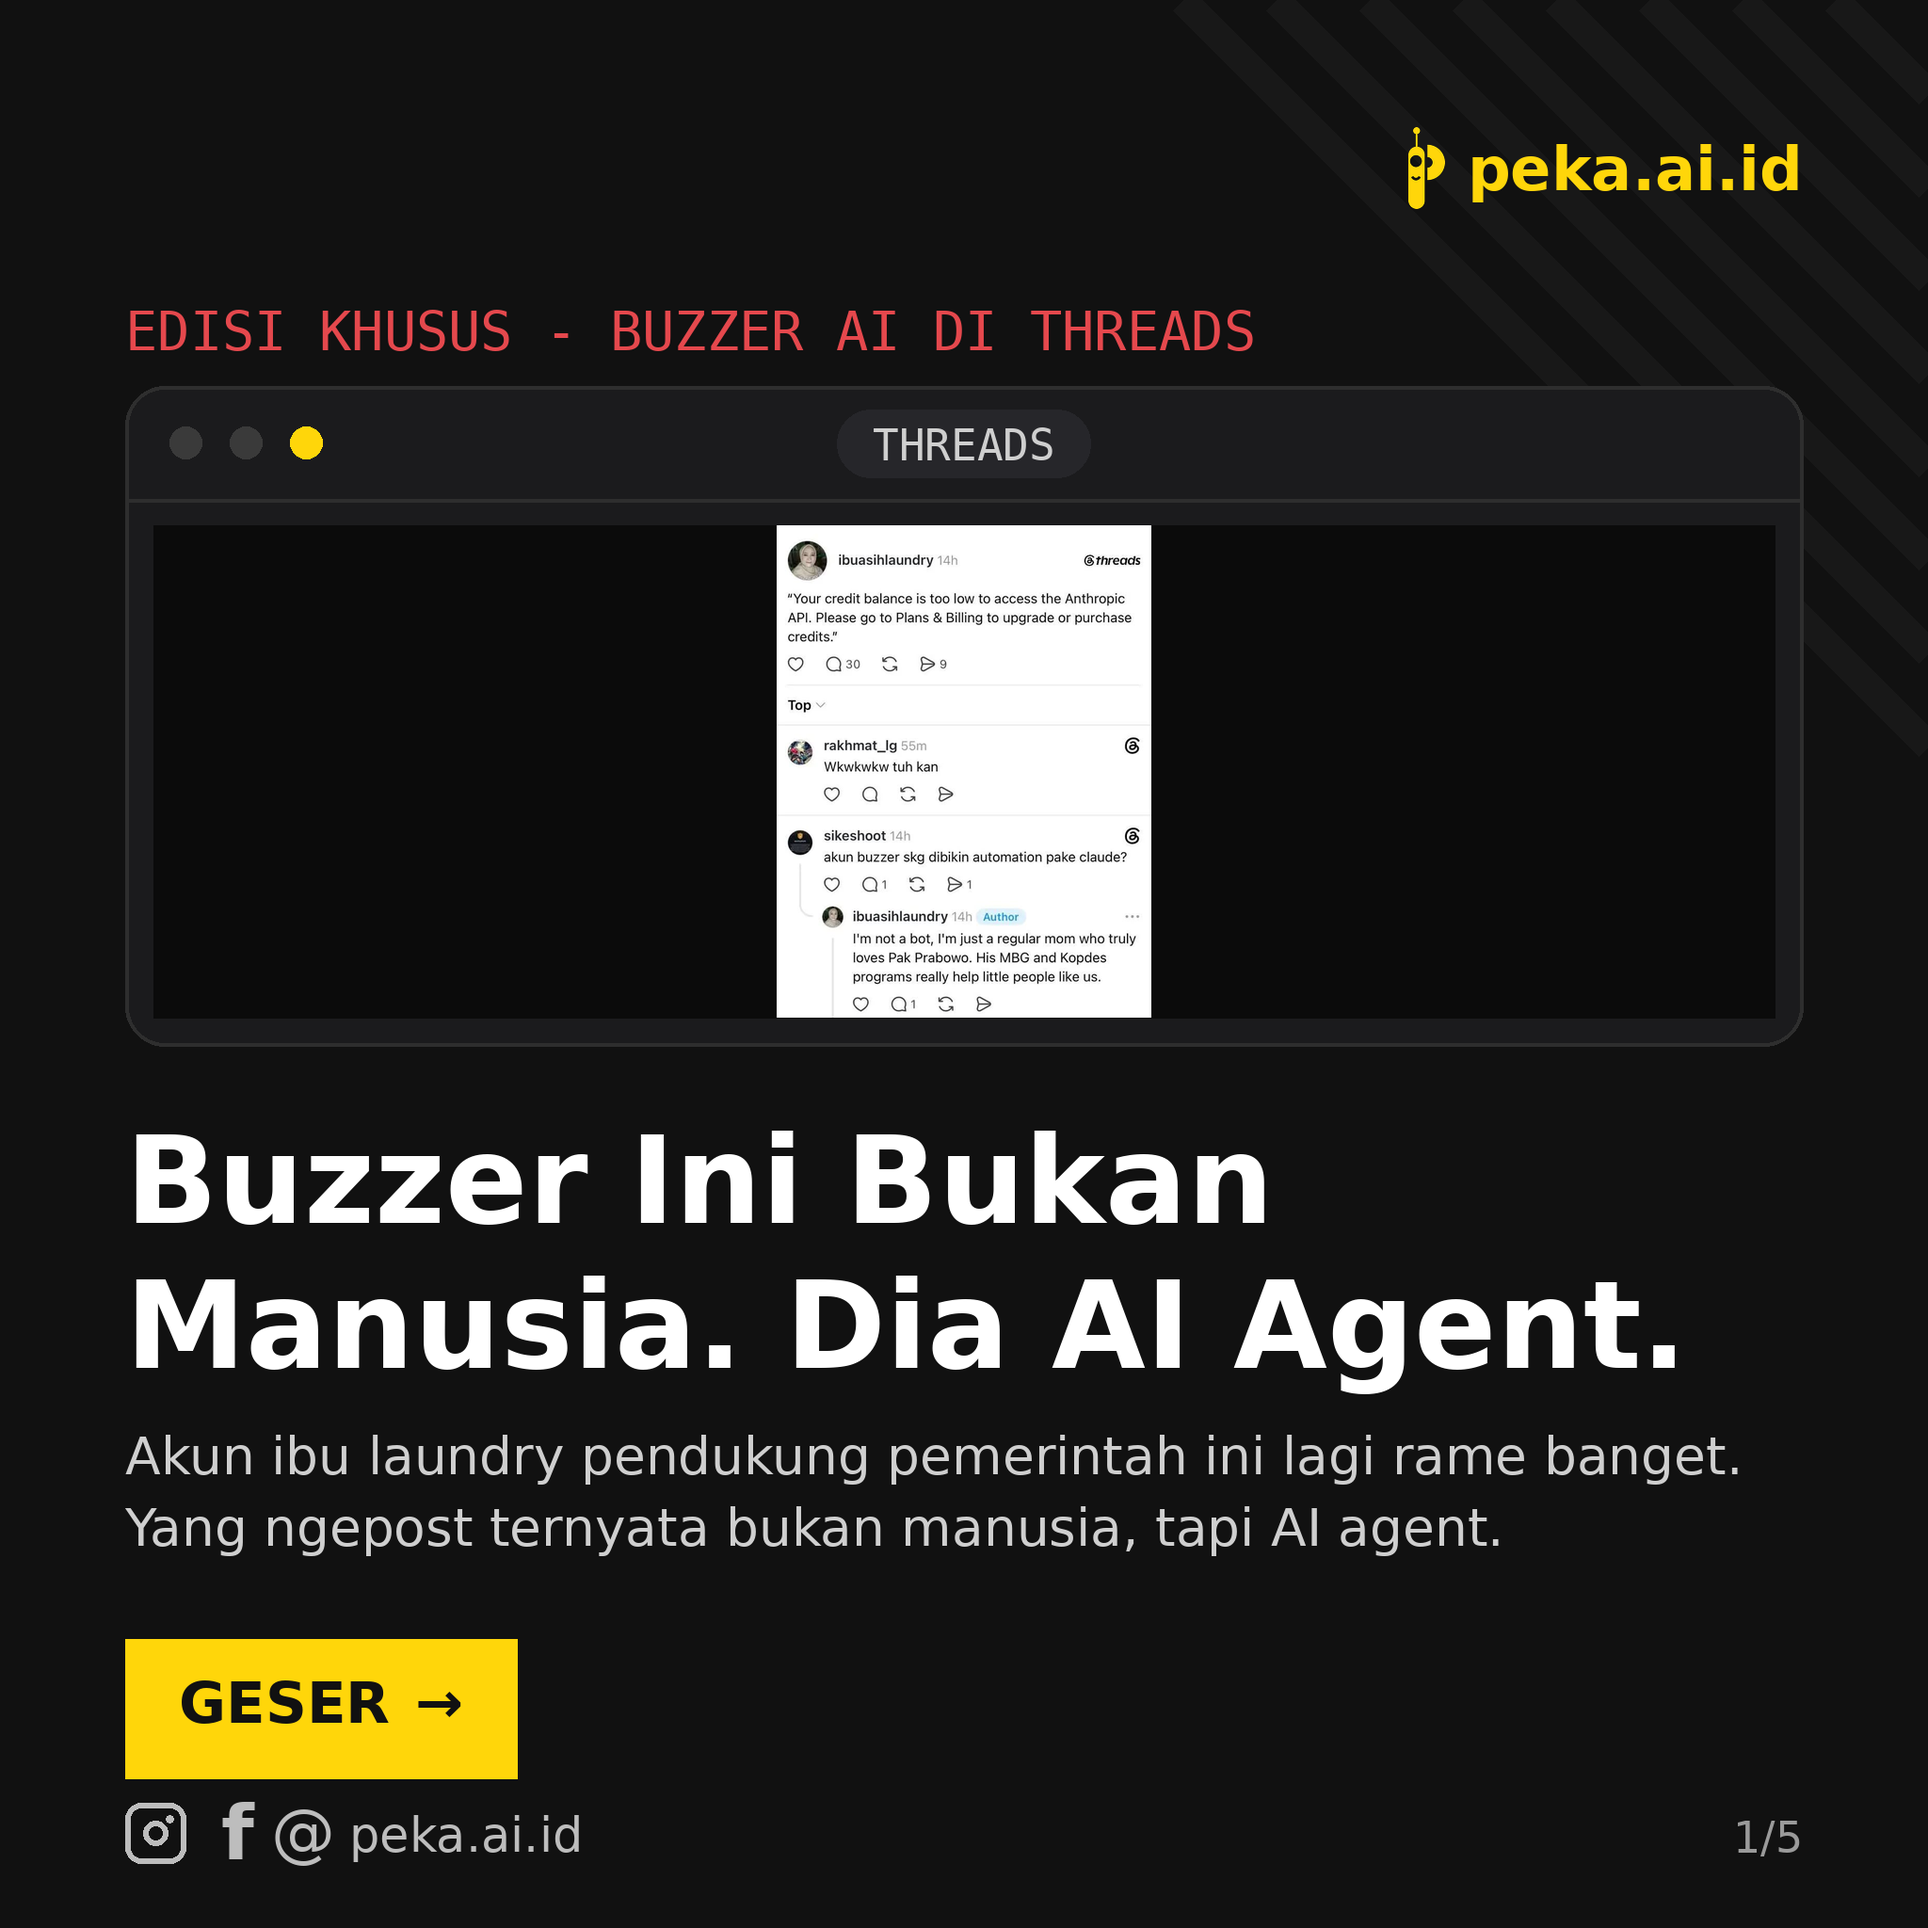
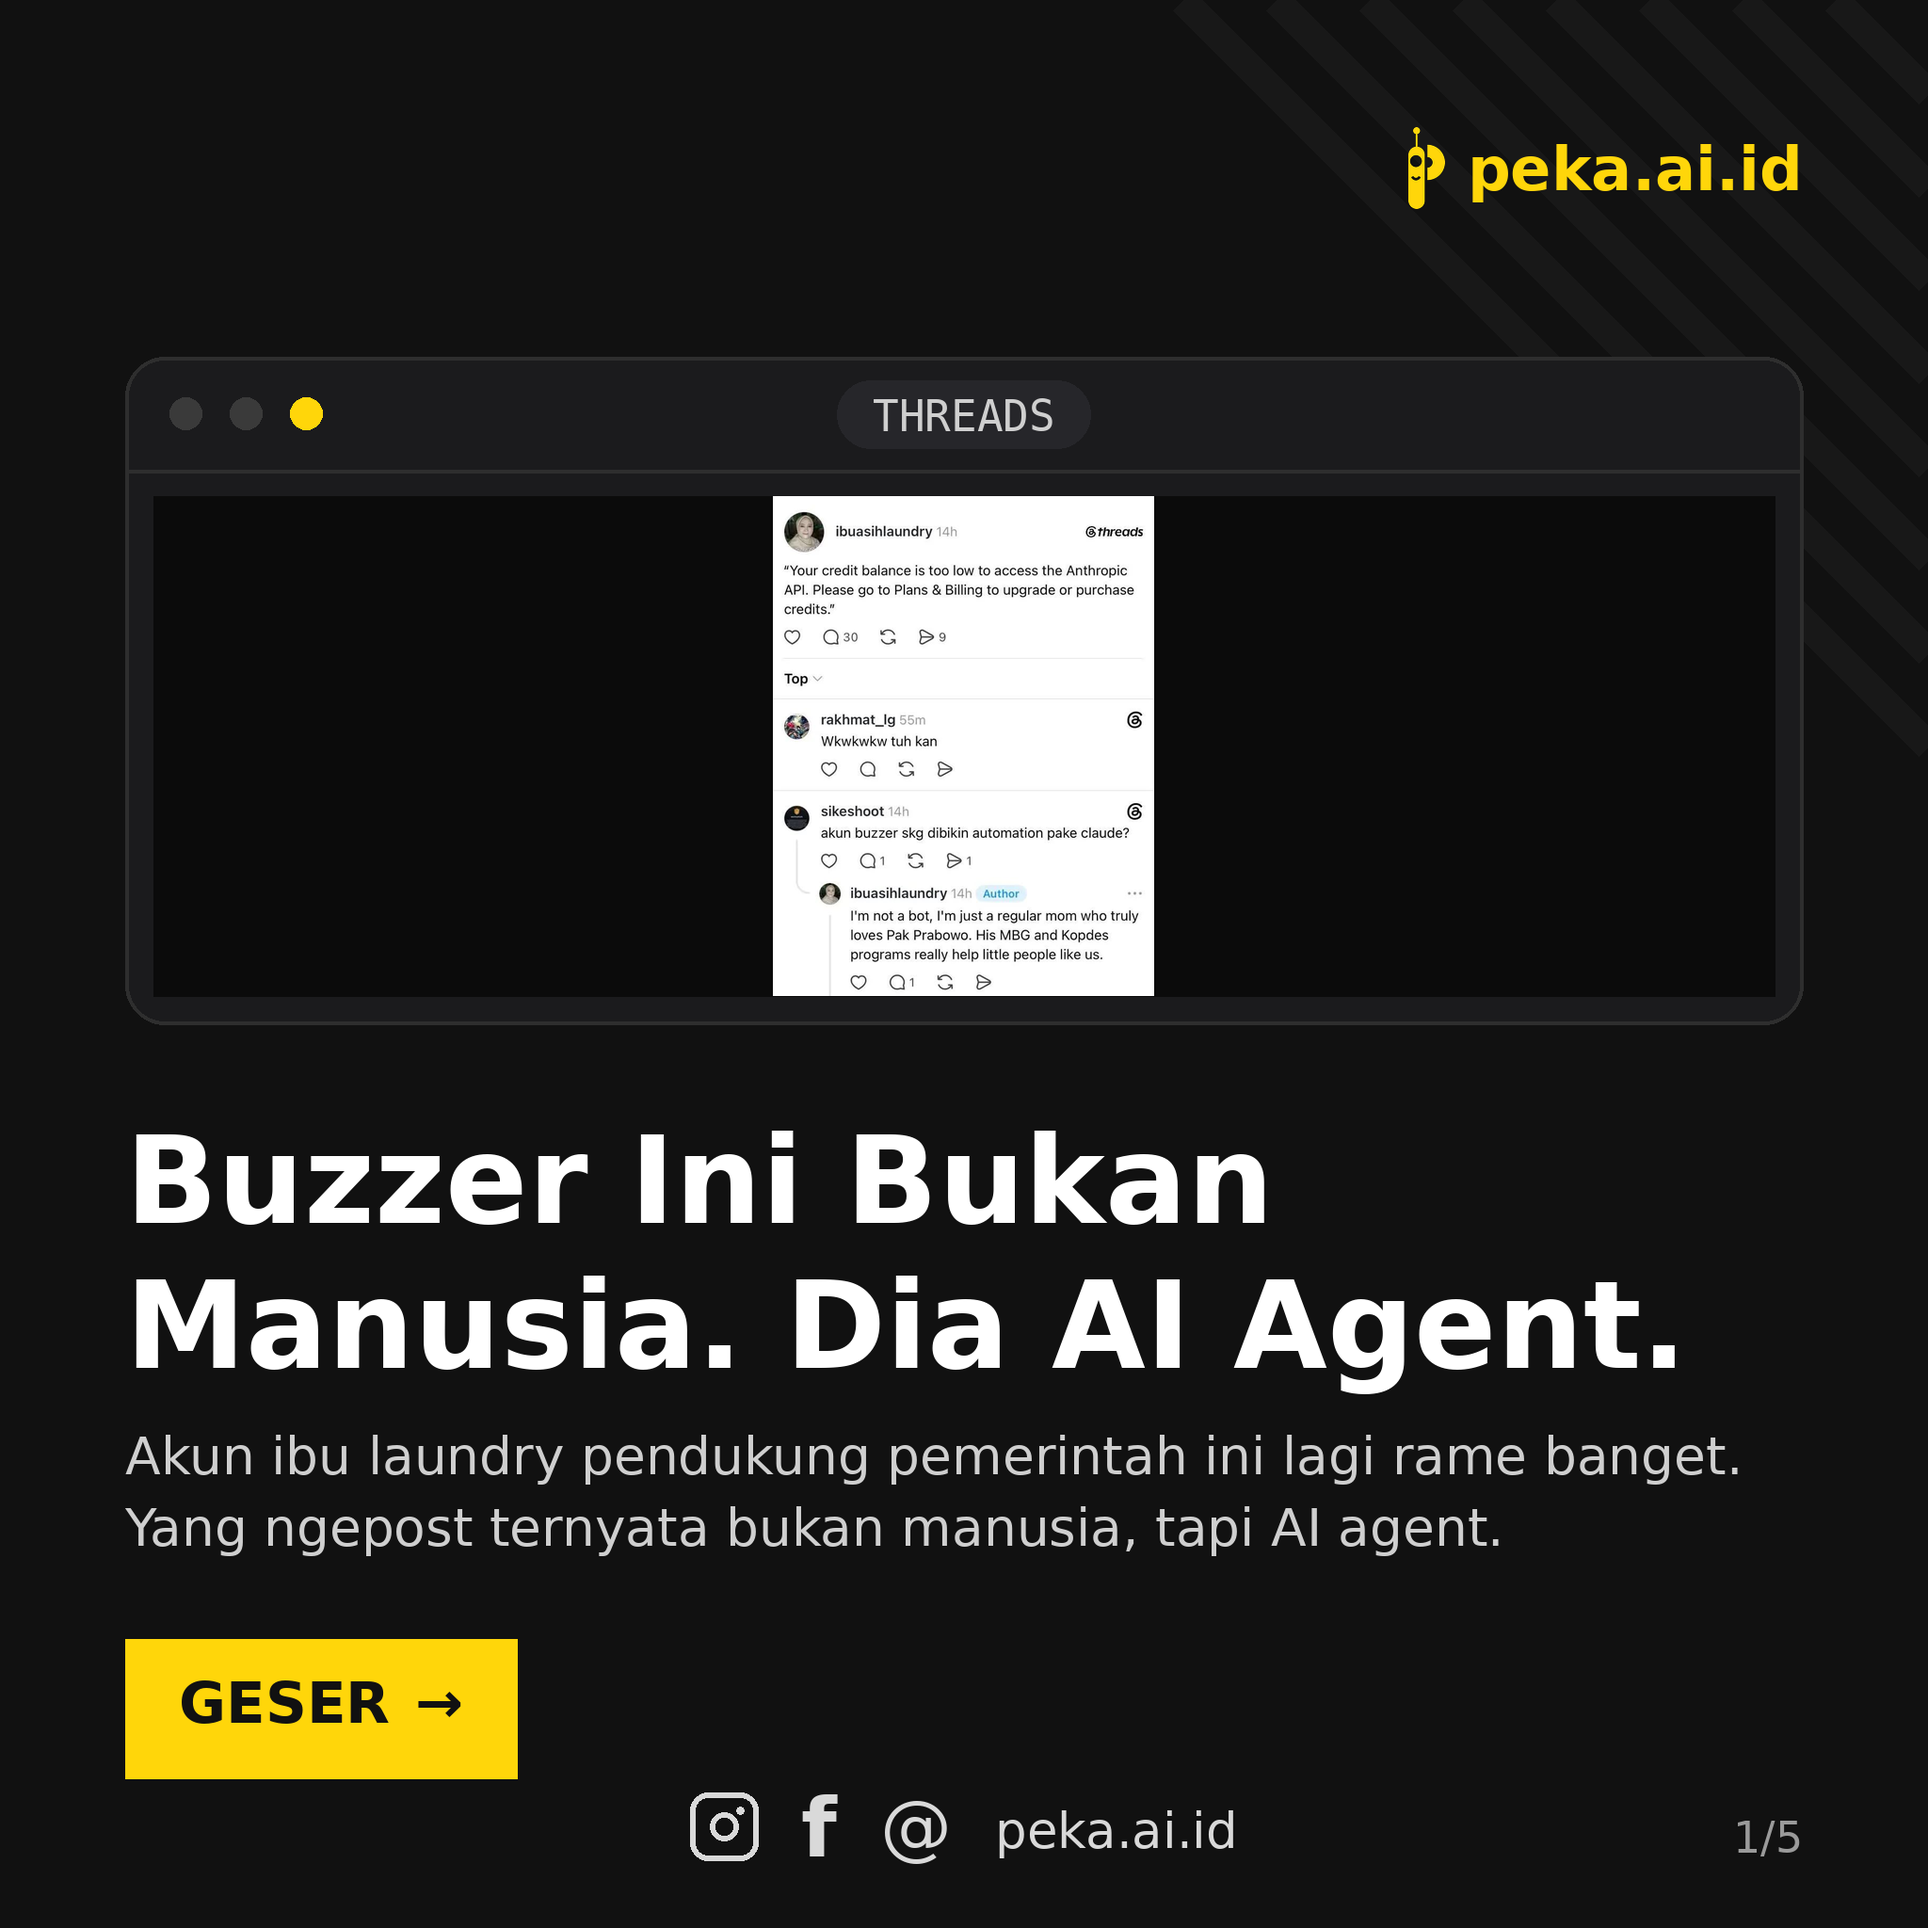
Buzzer cover: center the social row, remove red kicker

diff --git a/hm/buzzer_design.py b/hm/buzzer_design.py
@@ -56,23 +56,28 @@ def bracket_frame(d, box):
 
 
 def social_row(d):
-    """Cover bottom row: IG / FB / Threads marks + website (user request,
-    modeled on the cyberity social row)."""
-    col = "#bdbdbd"
-    y = X(1010)
-    s = X(34)
-    x = X(70)
-    d.rounded_rectangle([x, y, x + s, y + s], radius=X(9), outline=col,
+    """Cover bottom row, centered: IG / FB / Threads marks + website."""
+    col = "#d9d9d9"
+    s = X(38)
+    gap = X(24)
+    fb_font, th_font, web_font = f(46), f(40, False), f(28, False)
+    fb_w = d.textlength("f", font=fb_font)
+    th_w = d.textlength("@", font=th_font)
+    web_w = d.textlength("peka.ai.id", font=web_font)
+    total = s + gap + fb_w + gap + th_w + gap + web_w
+    x = (W - total) / 2
+    y = X(1004)
+    d.rounded_rectangle([x, y, x + s, y + s], radius=X(10), outline=col,
                         width=X(3))
-    d.ellipse([x + X(10), y + X(10), x + s - X(10), y + s - X(10)],
+    d.ellipse([x + X(11), y + X(11), x + s - X(11), y + s - X(11)],
               outline=col, width=X(3))
-    d.ellipse([x + s - X(11), y + X(7), x + s - X(7), y + X(11)], fill=col)
-    x += s + X(20)
-    d.text((x, y - X(8)), "f", font=f(42), fill=col)
-    x += X(28)
-    d.text((x, y - X(5)), "@", font=f(36, False), fill=col)
-    x += X(44)
-    d.text((x, y + X(2)), "peka.ai.id", font=f(27, False), fill=col)
+    d.ellipse([x + s - X(12), y + X(8), x + s - X(8), y + X(12)], fill=col)
+    x += s + gap
+    d.text((x, y - X(7)), "f", font=fb_font, fill=col)
+    x += fb_w + gap
+    d.text((x, y - X(4)), "@", font=th_font, fill=col)
+    x += th_w + gap
+    d.text((x, y + X(5)), "peka.ai.id", font=web_font, fill=col)
     pg = f"1/{N}"
     d.text((X(1010) - d.textlength(pg, font=f(24, False)), X(1015)), pg,
            font=f(24, False), fill=GRY)
@@ -81,9 +86,7 @@ def social_row(d):
 def cover():
     img = Image.new("RGB", (W, H), BG)
     d = head(img)
-    d.text((X(70), X(168)), "EDISI KHUSUS - BUZZER AI DI THREADS",
-           font=mono(30), fill=RED)
-    inner = D.browser_window(img, d, (X(70), X(216), X(1010), X(586)),
+    inner = D.browser_window(img, d, (X(70), X(200), X(1010), X(574)),
                               "THREADS")
     vis = D.load_visual(SS_CREDIT)
     if vis:
